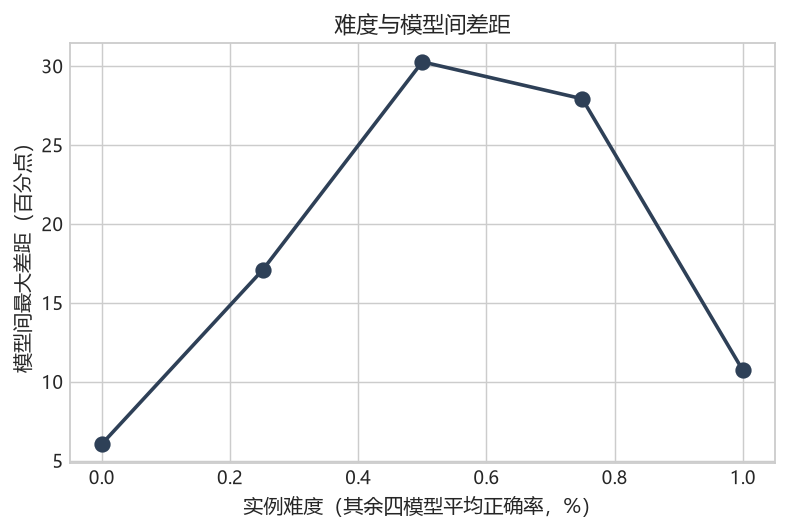
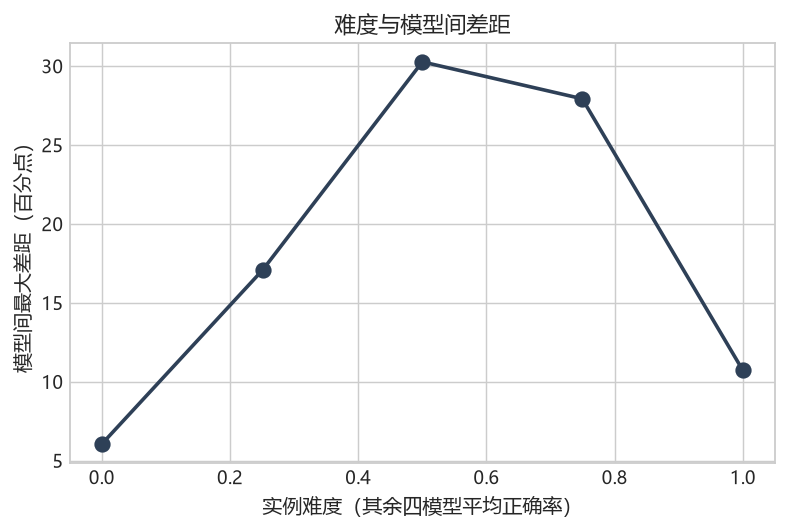
重出 6 张图：实例数 1,129 等

Changed region(s): [[0.305, 0.9341, 0.7624, 0.9944]]

diff --git a/scripts/make_figures_v3.py b/scripts/make_figures_v3.py
@@ -110,7 +110,7 @@ def fig01() -> None:
 
     # 分别取两个评测集 + 合并
     res: dict[str, dict[str, float]] = {}
-    for label, run, cfg, ds in (("合并（1171 实例）", None, None, None),
+    for label, run, cfg, ds in (("合并（1,129 实例）", None, None, None),
                                 ("MMLU-ProX", "c1-5arm-v2", "c1", "eval_set"),
                                 ("C-Eval", "ceval-c1-5arm-v2", "c1", "ceval_set")):
         m: dict[str, float] = {}
@@ -128,22 +128,22 @@ def fig01() -> None:
                 m[a] = acc_of({str(i): t for i, t in enumerate(rows)})
         res[label] = m
     mt = merged_tiers()
-    res["合并（1171 实例）"] = {a: acc_of(mt[a]) for a in ARMS}
+    res["合并（1,129 实例）"] = {a: acc_of(mt[a]) for a in ARMS}
 
-    order = sorted(ARMS, key=lambda a: -res["合并（1171 实例）"][a])
+    order = sorted(ARMS, key=lambda a: -res["合并（1,129 实例）"][a])
     y = np.arange(len(order))
     fig, ax = plt.subplots(figsize=(5 * 1.6, 3.5 * 1.4))
-    ax.barh(y, [res["合并（1171 实例）"][a] for a in order],
+    ax.barh(y, [res["合并（1,129 实例）"][a] for a in order],
             color=[COLOR[a] for a in order], height=0.62)
     for i, a in enumerate(order):
-        v = res["合并（1171 实例）"][a]
+        v = res["合并（1,129 实例）"][a]
         ax.text(v + 0.6, i, f"{v:.1f}", va="center", fontsize=11)
     ax.set_yticks(y)
     ax.set_yticklabels(order, fontsize=10.5)
     ax.invert_yaxis()
     ax.set_xlabel(f"准确率 {UP}（%）", fontsize=11)
     ax.set_xlim(0, 88)
-    ax.set_title("总体准确率 · 合并 1171 实例", fontsize=12)
+    ax.set_title("总体准确率 · 合并 1,129 实例", fontsize=12)
     fig.savefig(OUT / "30_overall_barh.png")
     plt.close(fig)
 
@@ -226,7 +226,8 @@ def fig03() -> None:
             spread.append(max(vals) - min(vals))
     fig, ax = plt.subplots(figsize=(5 * 1.4, 3.5 * 1.2))
     ax.plot(xs, spread, "o-", color=COOL_DARK, lw=2, ms=8)
-    ax.set_xlabel("实例难度（其余四模型平均正确率，%）", fontsize=11)
+    # ★ 横轴画的是 0~1 的比例，标题原先写「，%」与刻度对不上 —— 只改文字，刻度不动
+    ax.set_xlabel("实例难度（其余四模型平均正确率）", fontsize=11)
     ax.set_ylabel("模型间最大差距（百分点）", fontsize=11)
     ax.set_title("难度与模型间差距", fontsize=12)
     fig.savefig(OUT / "32_difficulty_spread.png")
@@ -335,7 +336,7 @@ def fig06() -> None:
         ax.axhline(v, color="#c00", ls=":", lw=1, alpha=0.6)
     ax.set_xlabel("MMLU-ProX 上的差值（百分点）", fontsize=11)
     ax.set_ylabel("C-Eval 上的差值（百分点）", fontsize=11)
-    ax.set_title("两评测集配对差值（绿=同向，红叉=翻转）", fontsize=12)
+    ax.set_title("两评测集配对差值（圆点=同向，叉号=翻转）", fontsize=12)
     fig.savefig(OUT / "35_cross_dataset.png")
     plt.close(fig)
 

diff --git a/scripts/make_figures_supplementary.py b/scripts/make_figures_supplementary.py
@@ -121,7 +121,11 @@ def fig42() -> None:
     ax.set_ylim(0, 108)
     ax.set_title(f"思考开关的效应：开启后五模型一致大幅上升 ↑（同一批 {len(keep)} 题，"
                  f"关闭思考为基线）")
-    ax.legend(frameon=True, loc="upper left")
+    # ★ 图例原先放在 upper left，正好压住第一组柱（ds-pro）上方的 Δ 标注（+36.8，
+    #   也就是效应区间上界），图上只剩四个 Δ。改放**坐标区内的右上角** ——
+    #   那一块没有柱子也没有标注（最高的 mimo 组 Δ 在 86 附近，图例在 96 以上），
+    #   只是换位置，不动图的整体设计。
+    ax.legend(frameon=True, loc="upper right")
     ax.grid(axis="x", visible=False)
     fig.savefig(OUT / "42_thinking_switch.png")
     plt.close(fig)
